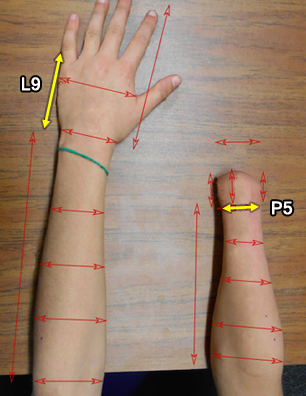
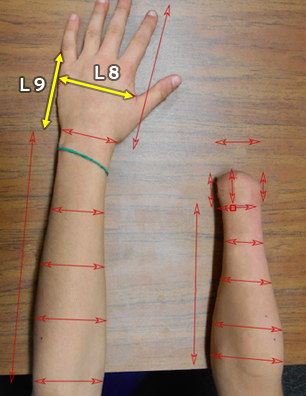
Requested modifications to be matched by backend. Use of R/L 8

diff --git a/js/main.js b/js/main.js
@@ -103,16 +103,16 @@ function handSelect(isLoad){
 		} else if (hand_selected == 0){
 			$('#prosthetic-tab span.title').html(' Left Prosthetic');
 			$('#v_l9').parent().addClass('hidden');
-			$('#v_r5').parent().addClass('hidden');
+			$('#v_l8').parent().addClass('hidden');
 			$('#v_r9').parent().removeClass('hidden');
-			$('#v_l5').parent().removeClass('hidden');
+			$('#v_r8').parent().removeClass('hidden');
 			$('#image img').get(0).src= './imgs/referece_lP.png';
 		} else if (hand_selected == 1){
 			$('#prosthetic-tab span.title').html(' Right Prosthetic');
 			$('#v_l9').parent().removeClass('hidden');
-			$('#v_r5').parent().removeClass('hidden');
+			$('#v_l8').parent().removeClass('hidden');
 			$('#v_r9').parent().addClass('hidden');
-			$('#v_l5').parent().addClass('hidden');
+			$('#v_r8').parent().addClass('hidden');
 			$('#image img').get(0).src= './imgs/referece_rP.png';
 		}
 
@@ -127,7 +127,7 @@ function setType(){
 		$('#left').remove();
 		$('#right').remove();
 		$('#v_l9').parent().addClass('hidden');
-		$('#v_r5').parent().addClass('hidden');
+		$('#v_l8').parent().addClass('hidden');
 		var mTabHTML = "<br/>" + $('#mid-pane').html();
 		$('#side-select-body').html($('#side-select-body').html() + mTabHTML);
 		var selectHTML = $('#side-select');

diff --git a/index.php b/index.php
@@ -214,24 +214,24 @@ $html = <<<HTML
      <input id="v_l2" type="hidden" name="Left2" value='{$_SESSION['Left2']}'>
      <input id="v_l3" type="hidden" name="Left3" value='{$_SESSION['Left3']}'>
      <input id="v_l4" type="hidden" name="Left4" value='{$_SESSION['Left4']}'>
-     <input id="v_l6" type="hidden" step="any" min="0" name="Left6" value='{$_SESSION['Left6']}'>
+     <input id="v_l5" type="hidden" name="Left8" value='{$_SESSION['Left5']}'>
+     <input id="v_l6" type="hidden" name="Left6" value='{$_SESSION['Left6']}'>
      <input id="v_l7" type="hidden" name="Left7" value='{$_SESSION['Left7']}'>
-     <input id="v_l8" type="hidden" name="Left8" value='{$_SESSION['Left8']}'>
      <input id="v_l10" type="hidden" name="Left10" value='{$_SESSION['Left10']}'>
 
      <input id="v_r1" type="hidden" step="any" min="0" name="Right1" value='{$_SESSION['Right1']}'>
      <input id="v_r2" type="hidden" step="any" min="0" name="Right2" value='{$_SESSION['Right2']}'>
      <input id="v_r3" type="hidden" step="any" min="0" name="Right3" value='{$_SESSION['Right3']}'>
      <input id="v_r4" type="hidden" step="any" min="0" name="Right4" value='{$_SESSION['Right4']}'>
+     <input id="v_r5" type="hidden" step="any" min="0" name="Right8" value='{$_SESSION['Right5']}'>
      <input id="v_r6" type="hidden" step="any" min="0" name="Right6" value='{$_SESSION['Right6']}'>
      <input id="v_r7" type="hidden" step="any" min="0" name="Right7" value='{$_SESSION['Right7']}'>
-     <input id="v_r8" type="hidden" step="any" min="0" name="Right8" value='{$_SESSION['Right8']}'>
      <input id="v_r10" type="hidden" step="any" min="0" name="Right10" value='{$_SESSION['Right10']}'>
 
 
-     <div class="input-group"><span class="input-group-addon">P5</span> <input id="v_l5" type="number" step="any" min="0" name="Left5" value='{$_SESSION['Left5']}'  placeholder="Wrist Joint distance from lateral to medial side" class="form-control"><span class="input-group-addon">mm</span></div>
-     <div class="input-group"><span class="input-group-addon">P5</span> <input id="v_r5" type="number" step="any" min="0" name="Right5" value='{$_SESSION['Right5']}'  placeholder="Wrist Joint distance from lateral to medial side" class="form-control"><span class="input-group-addon">mm</span></div>
-     Wrist Joint distance from lateral to medial side<br/><br/>
+     <div class="input-group"><span class="input-group-addon">L8</span> <input id="v_l8" type="number" step="any" min="0" name="Left5" value='{$_SESSION['Left8']}'  placeholder="Wrist Joint distance from lateral to medial side" class="form-control"><span class="input-group-addon">mm</span></div>
+     <div class="input-group"><span class="input-group-addon">R8</span> <input id="v_r8" type="number" step="any" min="0" name="Right5" value='{$_SESSION['Right8']}'  placeholder="Wrist Joint distance from lateral to medial side" class="form-control"><span class="input-group-addon">mm</span></div>
+     Distance from Lateral and Medial sides of the distal part of the hand<br/><br/>
 
      <div class="input-group"><span class="input-group-addon">L9</span> <input id="v_l9" type="number" step="any" min="0" name="Left9" value='{$_SESSION['Left9']}'  placeholder="Distance from wrist to proximal end of 1st phalange on pinky side (Medial)" class="form-control"><span class="input-group-addon">mm</span></div>
 
